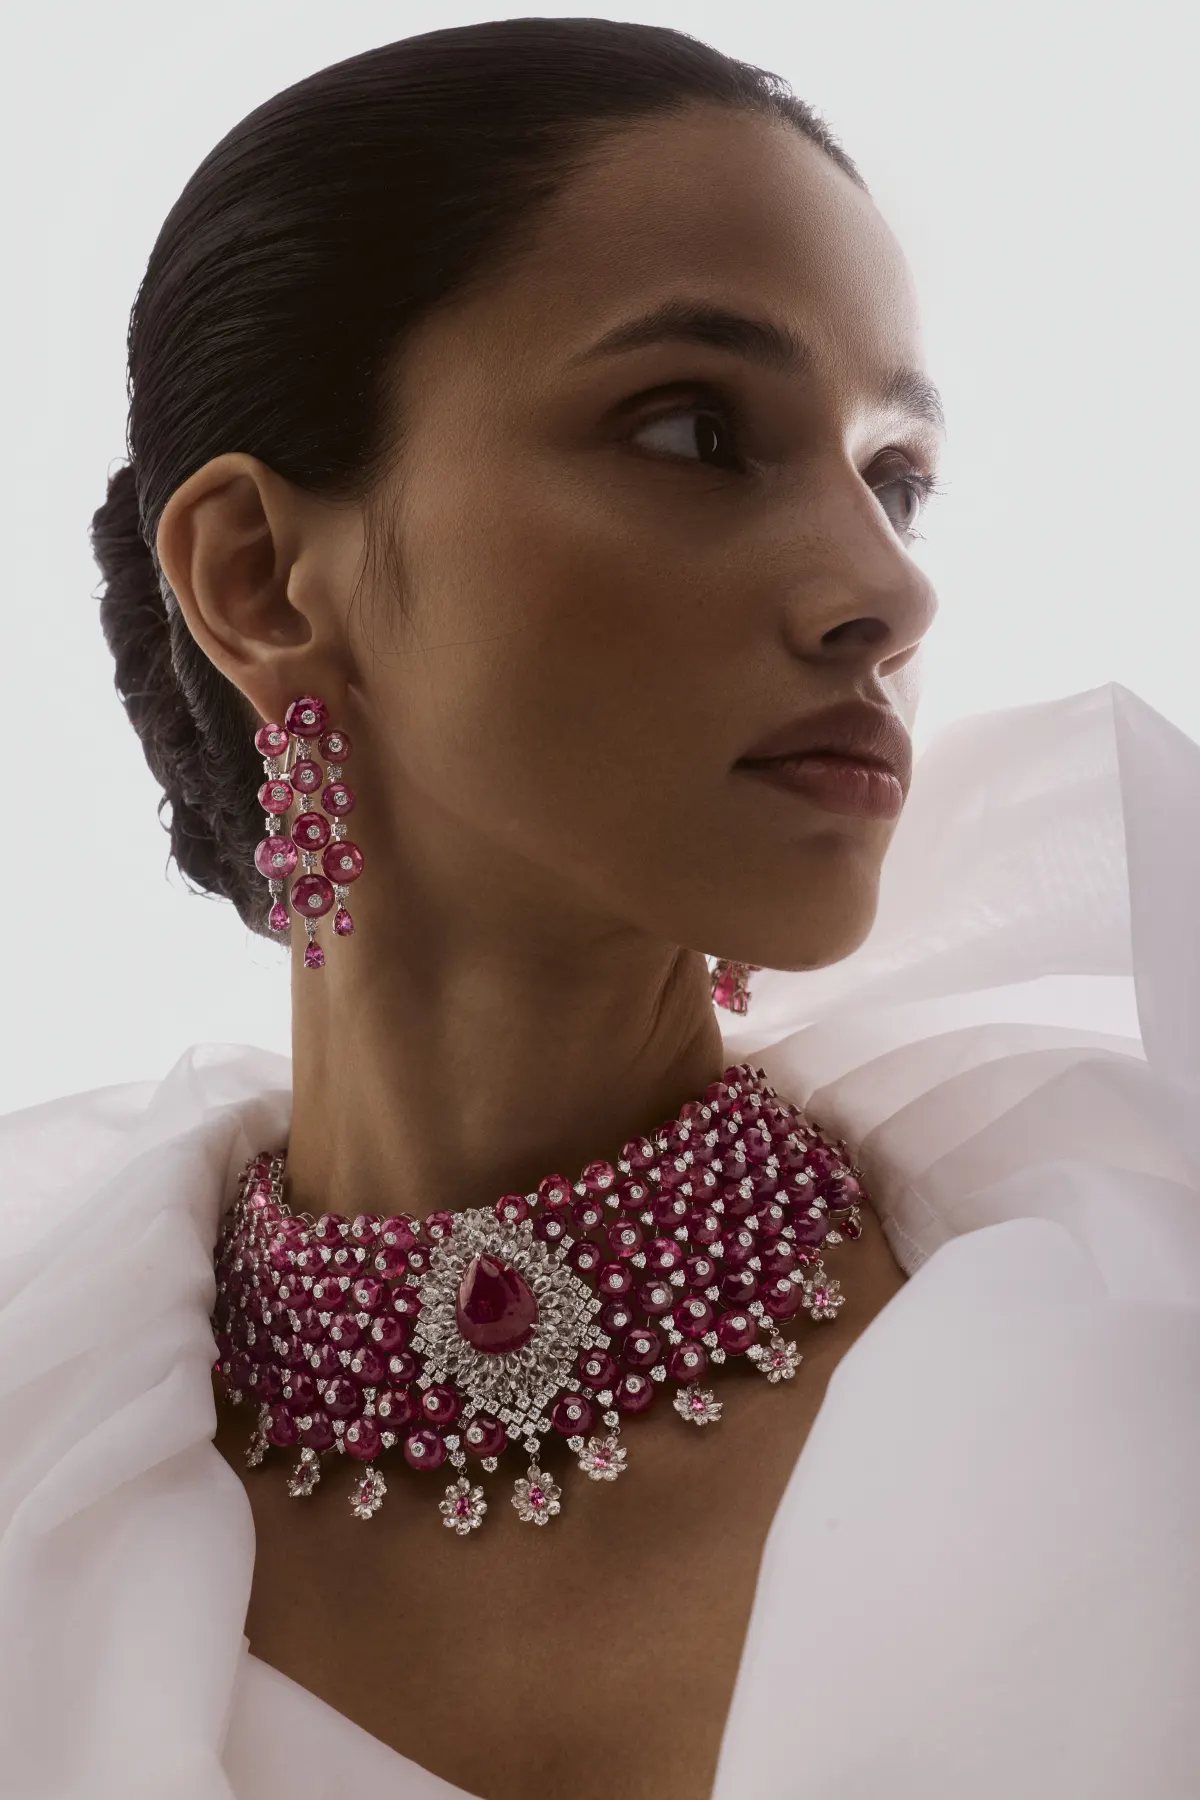
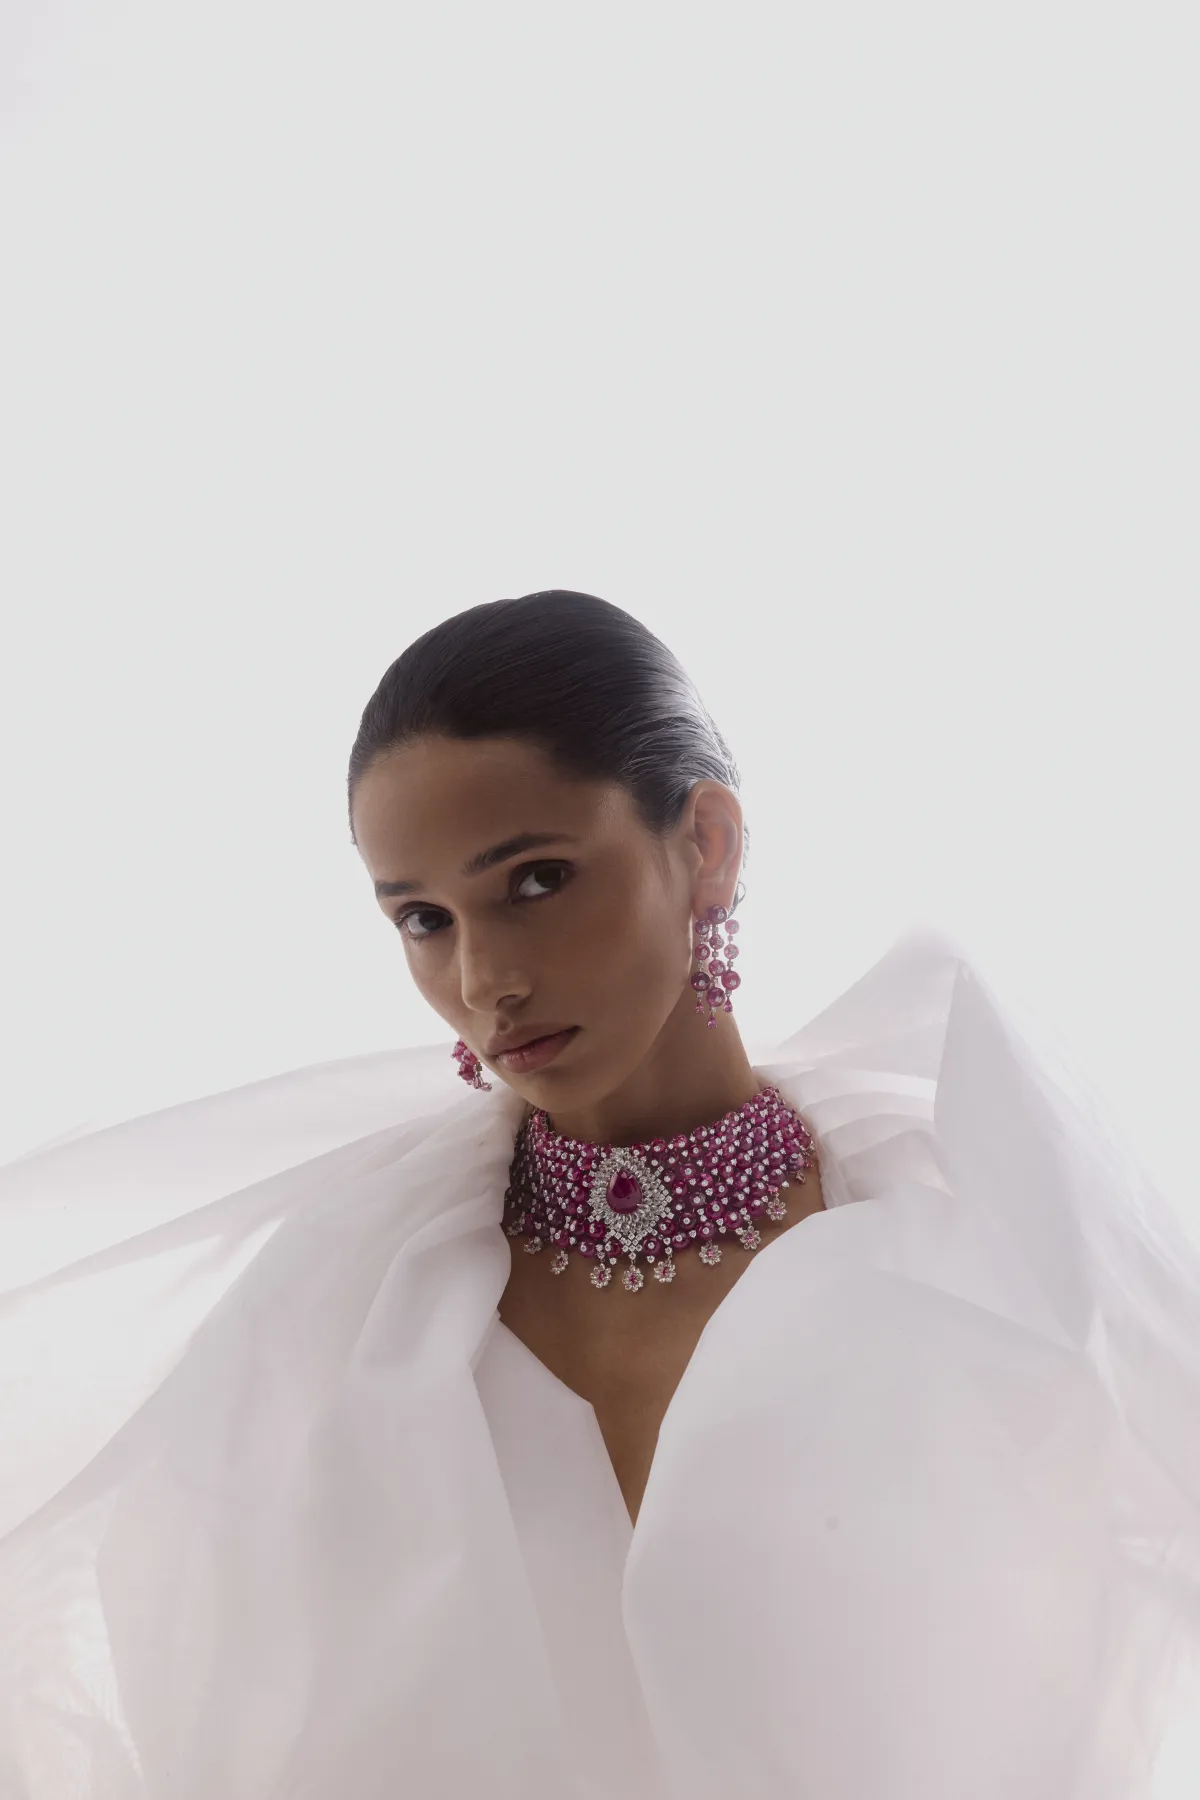
feat: home hero tries the looking-to-camera spinel portrait
Phone: the full portrait (1200w, 40KB). Desktop: a square crop around the
model (1800w, 71KB) on the photograph's own #e2e3e3, edges faded.

diff --git a/frontend/styles.css b/frontend/styles.css
@@ -330,15 +330,16 @@ button {
 
 /* The hero is a portrait photograph. Cropped to a wide screen it loses the
    face and the necklace together, so on a landscape screen the whole
-   portrait stands at full height in the centre on the photograph's own
-   pale studio grey, its side edges faded into that ground. */
+   frame (a square crop around the model, img/home-hero-wide.webp) stands at
+   full height in the centre on the photograph's own pale studio grey, its
+   side edges faded into that ground. */
 @media (min-width: 700px) and (min-aspect-ratio: 1/1) {
-  .hero-media { background: #e4e3e3; }
+  .hero-media { background: #e2e3e3; }
   .hero-img {
     align-self: center;
     width: auto;
     height: 100%;
-    aspect-ratio: 2 / 3;
+    aspect-ratio: 1 / 1;
     object-fit: cover;
     object-position: 50% 0;
     -webkit-mask-image: linear-gradient(to right, transparent, #000 16%, #000 84%, transparent);

diff --git a/frontend/index.html b/frontend/index.html
@@ -51,7 +51,7 @@
   <div class="hero-media">
     <picture>
       <source media="(min-width: 700px)" srcset="img/home-hero-wide.webp">
-      <img class="hero-img" src="img/home-hero.webp" alt="Model in white organza wearing a pink spinel choker and cascading earrings." fetchpriority="high" decoding="async">
+      <img class="hero-img" src="img/home-hero.webp" alt="Model in white organza looking into the camera, wearing a pink spinel choker and cascading earrings." fetchpriority="high" decoding="async">
     </picture>
     <div class="hero-copy">
       <p class="hero-tagline">Nothing begins above ground</p>
